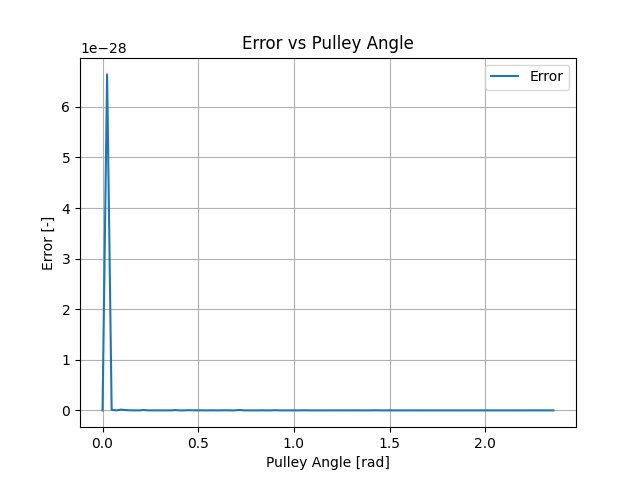
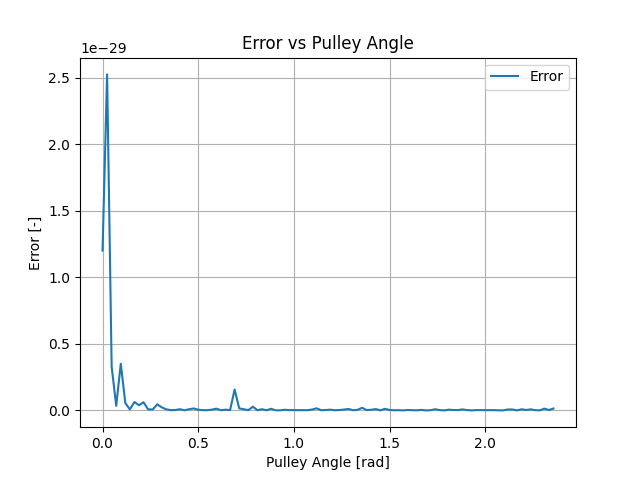
corrected simulated fingers

diff --git a/main.py b/main.py
@@ -171,7 +171,7 @@ def main():
     pulley_angles = np.linspace(0, 3 * np.pi / 4, num_simulations)
 
     # Run the simulation
-    joint_angles, tendon_tensions, motor_torque, errors = run_simulation(finger_3, pulley_angles)
+    joint_angles, tendon_tensions, motor_torque, errors = run_simulation(finger_2, pulley_angles)
 
     # Plot the results
     plot_results(finger_2, pulley_angles, joint_angles, tendon_tensions, motor_torque, errors,"saved_media")
